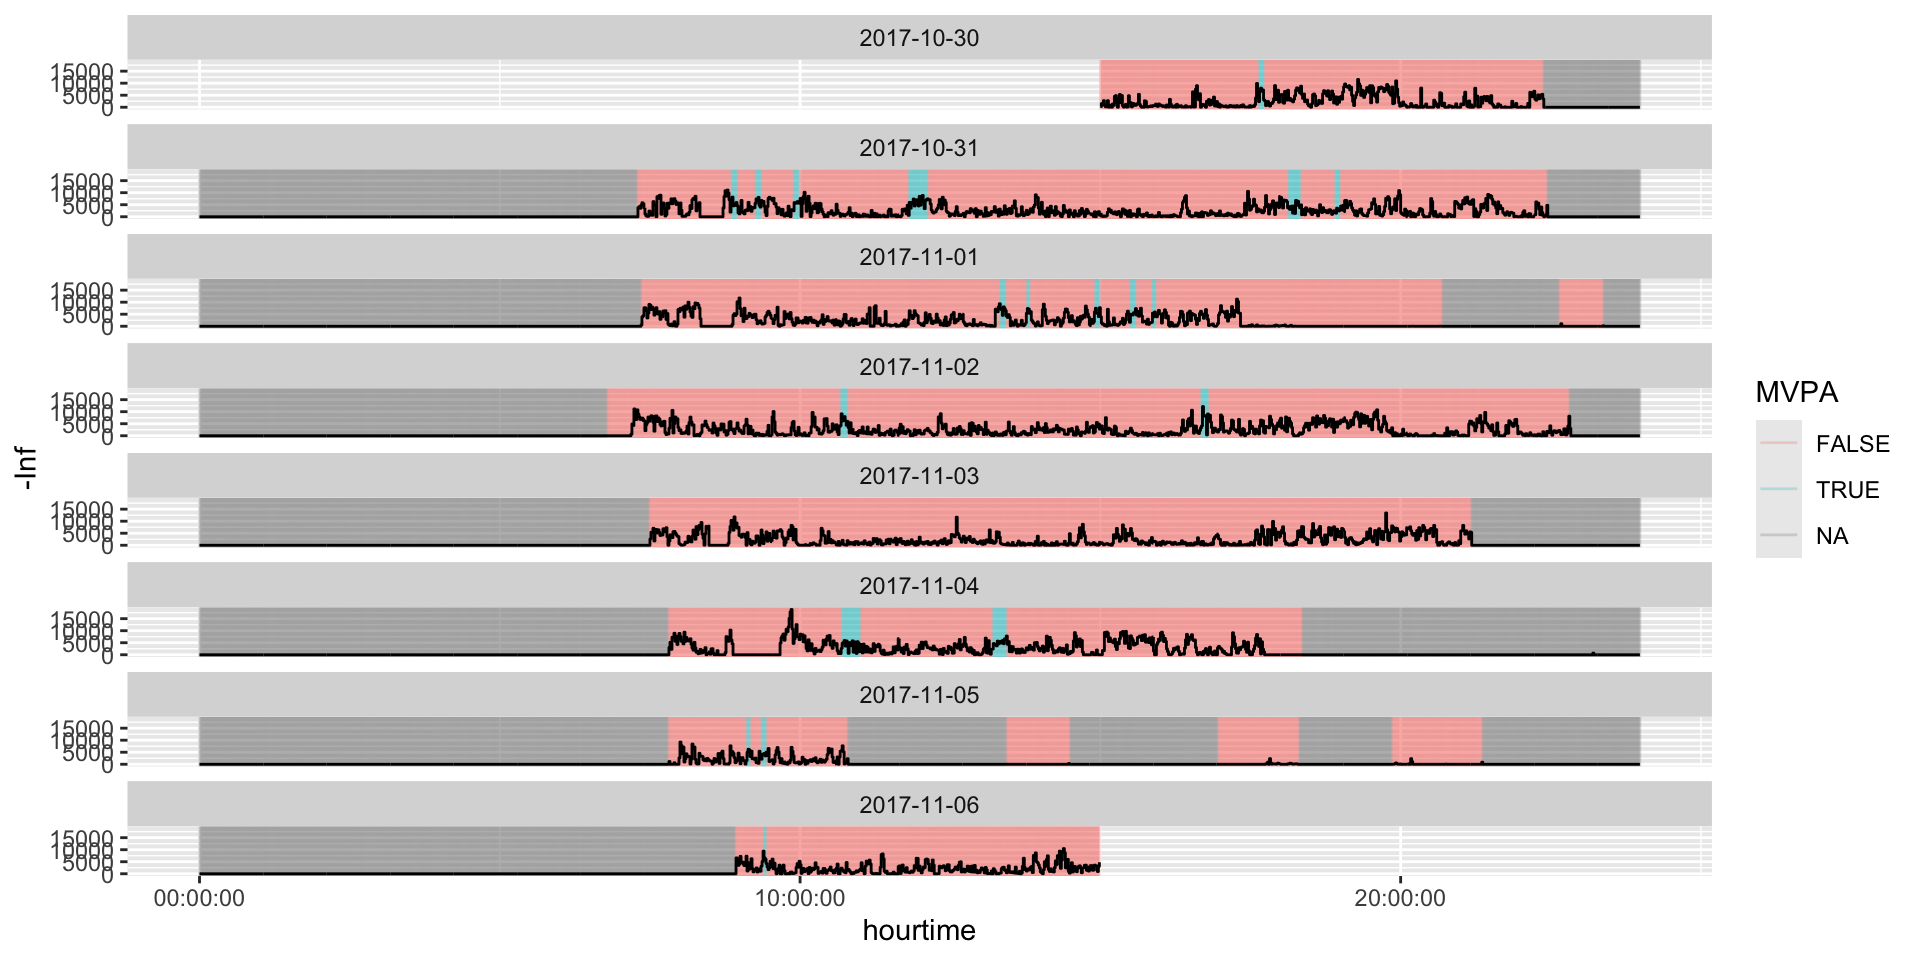
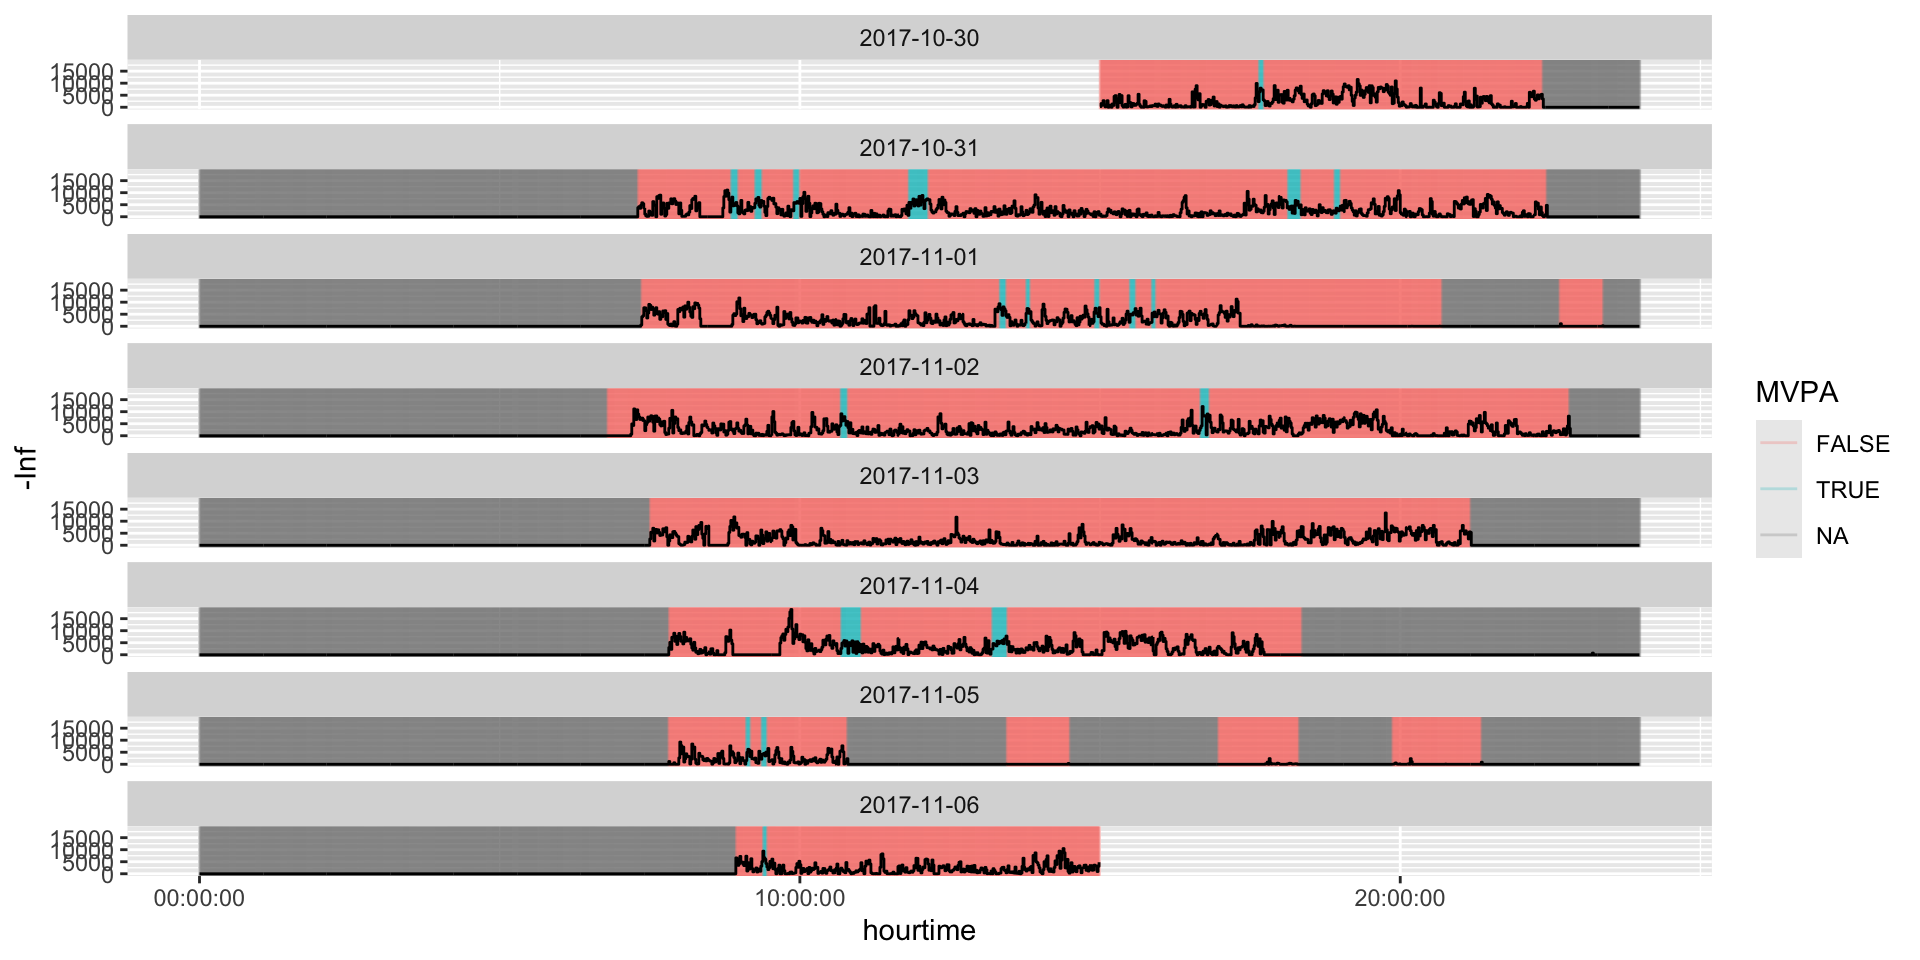
fixing 03

diff --git a/_site/modules/03-signal-metrics.html b/_site/modules/03-signal-metrics.html
@@ -255,8 +255,7 @@
 
 <section id="mad" class="title-slide slide level1 small center">
 <h1>MAD</h1>
-<p><span class="citation" data-cites="mad">Vähä-Ypyä et al. (<a href="#/references" role="doc-biblioref" onclick="">2015</a>)</span> recommended the Mean Amplitude Deviation (MAD): the mean of the absolute difference between the acceleration and the mean acceleration for a given epoch.</p>
-<p>For a given epoch of length <span class="math inline">\(m\)</span> (5), and where <span class="math inline">\(\text{VM}\)</span> represents the vector magnitude of the signal, the calculation of MAD is: <span class="math display">\[
+<p><span class="citation" data-cites="mad">Vähä-Ypyä et al. (<a href="#/references" role="doc-biblioref" onclick="">2015</a>)</span> recommended the Mean Amplitude Deviation (MAD): for=r a given epoch of length <span class="math inline">\(m\)</span> (5sec), and where <span class="math inline">\(\text{VM}\)</span> represents the vector magnitude of the signal, the calculation of MAD is: <span class="math display">\[
 \text{MAD} = \frac{1}{m} \sum_{i=1}^{m} \left|\text{VM}_i- \overline{\text{VM}}_m \right|
 \]</span> They recommended taking the mean value of MAD for summarization and recommended 5-second epochs.</p>
 </section>
@@ -314,6 +313,10 @@
 <li>2860-3940: light activity</li>
 <li><span class="math inline">\(\geq\)</span> 3941: moderate to vigorous physical activity (MVPA)</li>
 </ul>
+</section>
+
+<section id="mvpa-definition-1" class="title-slide slide level1 center">
+<h1>MVPA definition</h1>
 <p>From <span class="citation" data-cites="sasaki2011validation">(<a href="#/references" role="doc-biblioref" onclick="">Sasaki et al. 2011</a>)</span>:</p>
 <ul>
 <li>&lt; 2690: light</li>
@@ -322,6 +325,12 @@
 <li><blockquote>
 <p>9642: very vigorous</p>
 </blockquote></li>
+</ul>
+</section>
+
+<section id="mvpa-definition-2" class="title-slide slide level1 center">
+<h1>MVPA definition</h1>
+<ul>
 <li><code>actinet</code>: deep learning <span class="citation" data-cites="acquah_2026">(<a href="#/references" role="doc-biblioref" onclick="">Acquah et al. 2026</a>)</span></li>
 </ul>
 </section>
@@ -337,40 +346,34 @@
 <h1>Step Counts using <code>stepcount</code></h1>
 <p>SSL model + fine tuning with capture 24 data set.</p>
 <p><span class="citation" data-cites="stepcount">(<a href="#/references" role="doc-biblioref" onclick=""><span class="nocase">Small et al.</span> 2023</a>)</span> python module ported using <code>reticulate</code>.</p>
-<div class="cell">
+
+<img data-src="../assets/stepcount.png" width="1288" class="r-stretch"><div class="cell">
 <div class="code-copy-outer-scaffold"><div class="sourceCode cell-code" id="cb1"><pre class="sourceCode numberSource r number-lines code-with-copy"><code class="sourceCode r"><span id="cb1-1"><a></a>steps_gt3x <span class="ot">=</span> actimetrics<span class="sc">::</span><span class="fu">py_acti_calculate_stepcount</span>(data_gt3x)</span></code></pre></div><button title="Copy to Clipboard" class="code-copy-button"><i class="bi"></i></button></div>
 </div>
 </section>
 
 <section id="step-counts" class="title-slide slide level1 center">
 <h1>Step Counts</h1>
-<div class="cell">
-<div class="cell-output-display">
-<div>
-<figure>
-<p><img data-src="03-signal-metrics_files/figure-revealjs/steps_over_time-1.png" width="960"></p>
-</figure>
-</div>
-</div>
-</div>
-<div class="cell">
-<div class="cell-output-display">
-<div>
-<figure>
-<p><img data-src="03-signal-metrics_files/figure-revealjs/plot_steps-1.png" width="960"></p>
-</figure>
-</div>
-</div>
-</div>
-</section>
 
-<section>
+<img data-src="03-signal-metrics_files/figure-revealjs/steps_over_time-1.png" width="960" class="r-stretch"></section>
+
+<section id="step-counts-1" class="title-slide slide level1 center">
+<h1>Step Counts</h1>
+
+<img data-src="03-signal-metrics_files/figure-revealjs/plot_steps-1.png" width="960" class="r-stretch"></section>
+
 <section id="stepcount-works-pretty-well" class="title-slide slide level1 center">
 <h1>Stepcount works pretty well</h1>
 <p><span class="citation" data-cites="koffman2024evaluating">Koffman and Muschelli (<a href="#/references" role="doc-biblioref" onclick="">2024</a>)</span></p>
 <blockquote>
 <p>stepcount algorithm exhibited the highest F1 score (0.89 ± 0.11) and lowest MAPE (8.6 ± 9%) across all data sets and had the best, or comparable, F1 scores and MAPE in each individual data set.</p>
 </blockquote>
+</section>
+
+<section>
+<section id="stepcount-works-pretty-well-1" class="title-slide slide level1 center">
+<h1>Stepcount works pretty well</h1>
+<p><span class="citation" data-cites="koffman2024evaluating">Koffman and Muschelli (<a href="#/references" role="doc-biblioref" onclick="">2024</a>)</span></p>
 
 <img data-src="../assets/comparison_data.png" width="1025" class="r-stretch"></section>
 <section id="steps-per-minute" class="slide level2">
@@ -409,6 +412,11 @@
 
 <img data-src="03-signal-metrics_files/figure-revealjs/plot_asleep-1.png" style="width:100.0%" class="r-stretch"></section>
 
+<section id="disclaimer" class="title-slide slide level1 center">
+<h1>Disclaimer</h1>
+<p>I haven’t used <code>asleep</code> in publications yet and haven’t delved into those that have</p>
+</section>
+
 <section id="actinet" class="title-slide slide level1 center">
 <h1>Actinet</h1>
 <p><span class="citation" data-cites="acquah_2026">(<a href="#/references" role="doc-biblioref" onclick="">Acquah et al. 2026</a>)</span> - identifies “how much time is spent in sleep, sedentary behaviour, or doing physical activity.”</p>
@@ -428,8 +436,14 @@
 <span id="cb3-8"><a></a>  <span class="fu">guides</span>(<span class="at">colour =</span> <span class="fu">guide_legend</span>(<span class="at">title =</span> <span class="st">"MVPA"</span>)) <span class="sc">+</span> </span>
 <span id="cb3-9"><a></a>  <span class="fu">facet_wrap</span>(<span class="sc">~</span> date, <span class="at">ncol =</span> <span class="dv">1</span>)</span></code></pre></div><button title="Copy to Clipboard" class="code-copy-button"><i class="bi"></i></button></div>
 </div>
+<p>https://link.springer.com/article/10.1186/s12889-026-27719-0</p>
 
 <img data-src="03-signal-metrics_files/figure-revealjs/plot_actinet-1.png" style="width:100.0%" class="r-stretch"></section>
+
+<section id="disclaimer-1" class="title-slide slide level1 center">
+<h1>Disclaimer</h1>
+<p>I haven’t used <code>asleep</code> in publications yet, but <strong>have</strong> seen people use it.</p>
+</section>
 
 <section id="skdh-module" class="title-slide slide level1 center">
 <h1><code>skdh</code> module</h1>
